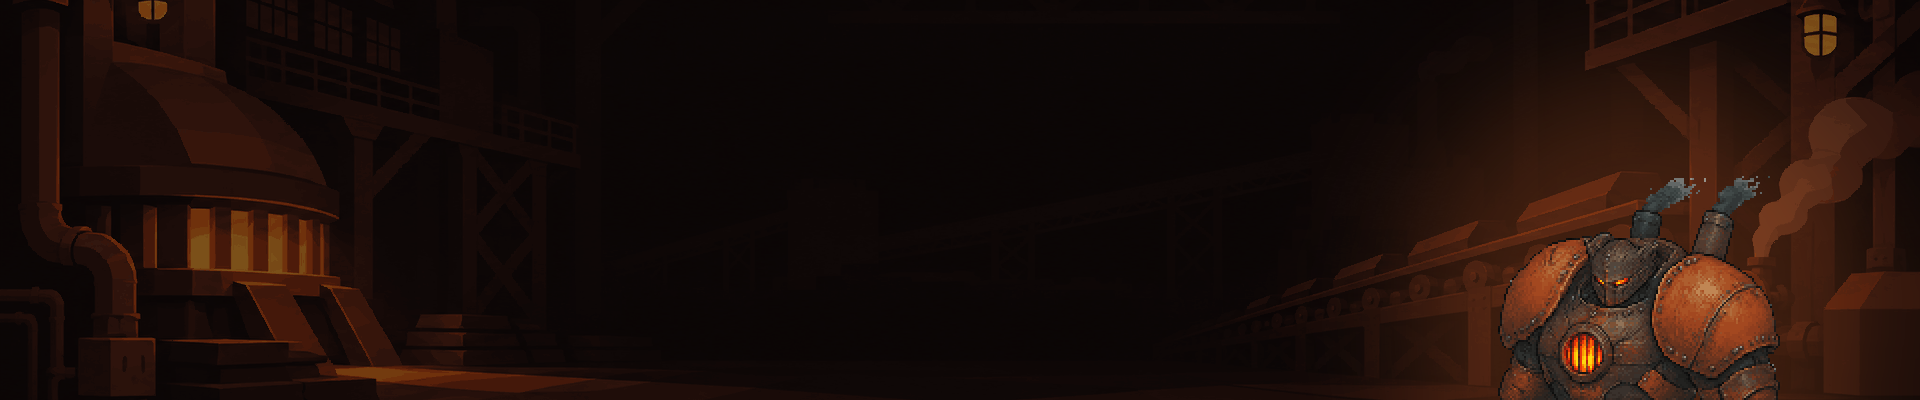
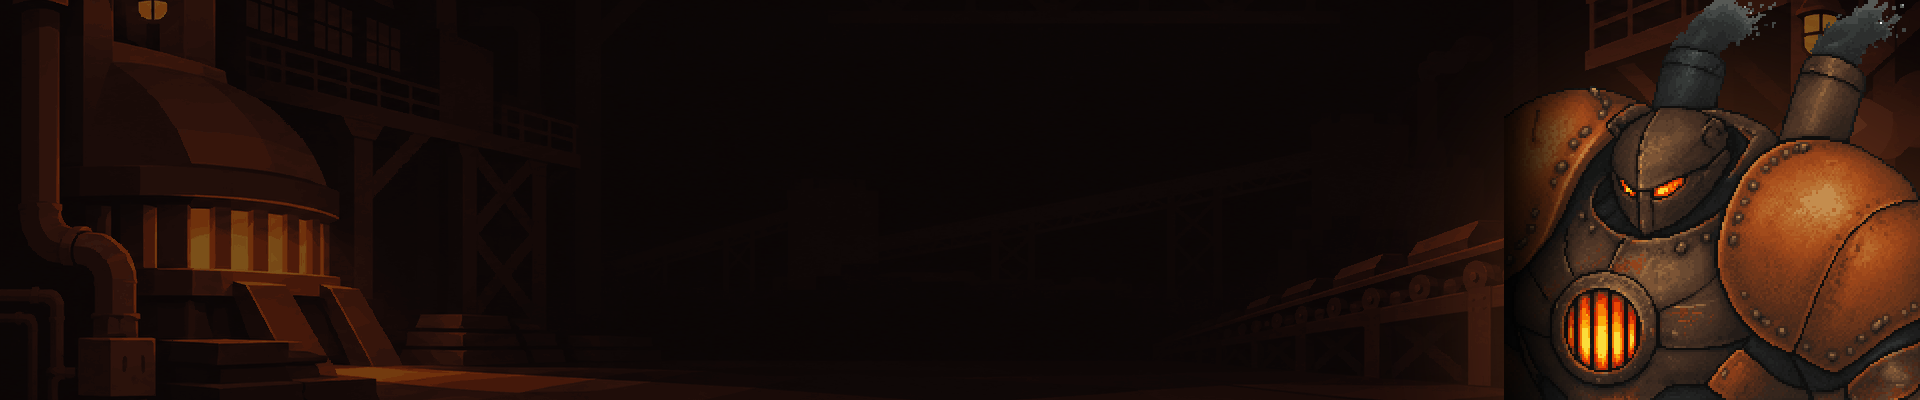
보스 카드 인물 키우기, 고철 기둥 예고를 구운 띠로
- 보스 카드(크래셔·아크·문지기) 인물을 PixelLab 가슴 위 클로즈업으로
  다시 뽑아 카드 높이를 꽉 채운다(1차 선택 시안을 기준 그림으로, 48회).
  오른쪽 끝에 붙이고 왼쪽 잘린 선은 2px 열 단위로 어둡게 스며들게.
- 크래셔 고철 기둥 낙하 예고: 사각형 띠 -> effects.draw_warn(색·폭·깜빡임 그대로).
테스트 1개 추가(878개 통과).

Changed region(s): [[0.7812, 0.0, 1.0, 1.0]]

diff --git a/tools/apply_pixellab_boss_cards.py b/tools/apply_pixellab_boss_cards.py
@@ -19,14 +19,14 @@ RAW = os.path.join(ROOT, 'assets', 'sprites', 'pixellab', 'boss_cards_v6', 'raw_
 OUT = os.path.join(ROOT, 'assets', 'backgrounds')
 W, H = 1920, 400
 SCALE = 2
-RIGHT = 140                 # 인물 오른쪽 끝과 카드 오른쪽 끝 사이
+RIGHT = 0                   # 인물 오른쪽 끝과 카드 오른쪽 끝 사이 (2차 검토: 가슴 위 클로즈업이 캔버스 좌우를 채워 카드 끝에 붙인다)
 DARK = 0.5                  # 배경 밝기
 
 # 보스 -> (고른 시안, 구역 배경, 인물 뒤 빛 색). 고른 이유는 boss_cards_v6/GENERATION_LOG.md
 CARDS = {
-    'crasher': ('crasher_2', 'zone_foundry', (255, 120, 50)),
-    'ark': ('ark_1', 'zone_haze', (60, 220, 200)),
-    'gatekeeper': ('gatekeeper_1', 'zone_cell', (120, 170, 230)),
+    'crasher': ('crasher_c1', 'zone_foundry', (255, 120, 50)),
+    'ark': ('ark_c4', 'zone_haze', (60, 220, 200)),
+    'gatekeeper': ('gatekeeper_c1', 'zone_cell', (120, 170, 230)),
     'heart': (None, 'zone_haze', (60, 230, 210)),
 }
 
@@ -43,11 +43,21 @@ def background(zone, glow, center_x):
     return Image.composite(color, bg, halo)
 
 
+FADE_W = 80                 # 인물 왼쪽 끝(캔버스에서 잘린 세로 선)을 이만큼 어둡게 스며들게 한다(px, 2px 열 단위)
+
+
 def portrait(name):
-    """고른 상반신: 알파 영역으로 잘라 최근접 2배. 알파는 0/255 그대로."""
+    """고른 상반신: 알파 영역으로 잘라 최근접 2배. 알파는 0/255 그대로.
+    2차 검토: 가슴 위 클로즈업이라 캔버스 왼쪽 끝에서 잘린다 -> 왼쪽 FADE_W를 2px 열마다 같은 배율로 어둡게(격자 유지)."""
     im = Image.open(os.path.join(RAW, name + '.png')).convert('RGBA')
     im = im.crop(im.getchannel('A').getbbox())
-    return im.resize((im.width * SCALE, im.height * SCALE), Image.NEAREST)
+    im = im.resize((im.width * SCALE, im.height * SCALE), Image.NEAREST)
+    import numpy as np
+    a = np.array(im).astype(np.float32)
+    for x0 in range(0, min(FADE_W, im.width), 2):
+        k = 0.12 + 0.88 * ((x0 + 2) / FADE_W) ** 1.4
+        a[:, x0:x0 + 2, :3] *= k
+    return Image.fromarray(np.clip(a + 0.5, 0, 255).astype(np.uint8), 'RGBA')
 
 
 def place(kind):

diff --git a/tests/test_effect_colors.py b/tests/test_effect_colors.py
@@ -31,6 +31,15 @@ def test_weapon_imprint_colors_follow_the_color_language():
     assert chain[2] > chain[0] > chain[1]                         # 보라
 
 
+def test_pillar_warning_uses_the_baked_warn_band():
+    """2차 검토 반영: 고철 기둥 낙하 예고도 다른 바닥 예고처럼 effects.draw_warn(끝이 가늘어지는 띠 + 빛)으로 그린다."""
+    import inspect
+    src = inspect.getsource(boss_terrain.ScrapPillar.draw)
+    warn = src[src.index("'warn'"):src.index("'fall'")]
+    assert 'effects.draw_warn(' in warn and 'PILLAR_WARN_COLOR' in warn
+    assert 'draw_rect_color' not in warn
+
+
 if __name__ == '__main__':
     tests = [v for k, v in sorted(globals().items()) if k.startswith('test_')]
     for t in tests:

diff --git a/src/boss_terrain.py b/src/boss_terrain.py
@@ -101,8 +101,8 @@ class ScrapPillar(_Solid):
     def draw(self):
         x0 = int(self.x - T)
         if self.state == 'warn':                                     # 바닥에 깜빡이는 그림자
-            if int(self.time * 10) % 2 == 0:
-                assets.draw_rect_color(x0, int(self.floor_y), 2 * T, 8, PILLAR_WARN_COLOR)
+            if int(self.time * 10) % 2 == 0:                          # 다른 바닥 예고와 같은 구운 띠 + 빛 (폭·깜빡임은 그대로)
+                effects.draw_warn(x0, int(self.floor_y), 2 * T, PILLAR_WARN_COLOR)
             return
         if self.state == 'fall':
             k = self.time / PILLAR_FALL

diff --git a/docs/DECISIONS.md b/docs/DECISIONS.md
@@ -720,6 +720,7 @@
 - 2026-11-26 **강화 교체기 (O5, plan_v8 3절)**: 강화 1~2단계가 준비된 채 교체기가 나가면 피해·범위(사거리·끌어오는 거리) x`SWAP_ENHANCE_MULT`(1.5, 2.0), 쌓인 단계를 모두 쓴다(`consume_enhance`). 교체기 뒤 `SWAP_ENHANCE_WINDOW`(0.6초) 안의 그 무기 타격은 맞은 적 둘레 `SWAP_ENHANCE_SPREAD`(220px)의 적에게 들어오는 무기의 각인을 묻힌다(`combo.on_hit`, 쌍권총 탄환·사슬 끌어오기가 늦게 맞아서 시간 창으로 잰다). 3단계(궁극기 준비)·교체기 쿨다운이면 강화를 쓰지 않는다. 글자는 '강화 ' + 교체기 이름, 강화 단계 색. 이펙트는 새 그림 없이 강화 색 고리(`spawn_ring`)와 빛 번짐.
 - 2026-11-26 **등불 깜빡임과 보스 막타 줌 (O6)**: 등 장식 빛은 `room.lamp_level(lamp_seed(방 이름, 칸), 방 시간)`(0.3~1: 박자가 다른 사인 둘의 느린 흔들림 + 등마다 5~9초에 한 번 0.14초 꺼질 듯, 번쩍임 줄이기면 1)을 곱한다. 등 아래 빛 원뿔(O3)도 같은 값으로 흔든다. 보스 막타 줌은 `postfx.zoom`: 볼록 렌즈와 따로, 세계 층 전체를 보스 화면 자리 쪽으로 고르게 당긴다(`BOSS_KILL_ZOOM` 0.25초에 6% -> 0.35초에 복귀, 실제 시간). UI 층은 그대로. 보스 넷이 쓰러지는 자리(죽음 대사)에서 `postfx.boss_kill`이 보스마다 한 번 부르고 일반 적은 부르지 않는다. 번쩍임 줄이기와 상관없이 `BOSS_KILL_ZOOM_ON`으로 끈다. 임팩트 프레임(2프레임)과 겹쳐도 어색하지 않아 미루지 않았다.
 - 2026-11-26 **이펙트 색 점검 (O7)**: 적의 낙하 예고는 노랑 하나(`config.FALL_WARN_COLOR` (250,220,90)): 천장 고철 더미와 크래셔 고철 기둥이 같은 값을 쓴다(기둥이 주황이었다). 나머지는 표와 맞았고, 취향으로 남긴 다섯 가지(각성 하늘색, 처형 예고 금 마름모, 용광로 배기구 청록 예고, 적 탄환 청록, 기둥 예고의 사각형 띠)는 `docs/project/color_check.md`에 목록으로만 둔다.
+- 2026-11-26 **보스 카드 인물은 가슴 위 클로즈업 (2차 검토)**: 카드 인물이 카드 높이의 85~100%가 되게 1차 선택 시안을 기준 그림으로 넣어 다시 뽑았다(crasher_c1·ark_c4·gatekeeper_c1, 모두 100%). 캔버스 좌우까지 차는 그림이라 오른쪽 끝을 카드 끝에 붙이고, 왼쪽 80px을 2px 열마다 같은 배율로 어둡게 해 잘린 선을 숨긴다(도트 격자 유지). 크래셔 고철 기둥 낙하 예고는 `effects.draw_warn`(다른 바닥 예고와 같은 띠 + 빛).
 - 2026-11-26 **세션을 둘로 나눈다 (사용자 결정, 주간 한도 절약)**: 기획·판단·검토는 Fable 세션("FABLE 기획 진두지휘"), 구현·테스트·촬영·커밋은 Opus 세션("OPUS GAME 작업"). 기획 세션이 쓴 지시문은 `docs/opus/TASKS.md`. 두 세션은 같은 폴더·같은 main을 쓰므로 같은 파일을 동시에 고치지 않는다.
 - 2026-11-26 **참고 자료 검토 결과 (사용자가 "세 묶음 모두")**: 넣는다 = ① 실루엣 컷인(단색 바탕 + 검은 실루엣 0.7초: 보스 페이즈 전환, 그리고 새 증강 '궁극기 각성'을 가진 궁극기) ② 보스 등장 보강(음악 정적, 체력바 차오름, 크래셔만 착지 등장) ③ 빛줄기(등 아래 빛 원뿔과 기운 빛줄기. 환경광·배경 분리·림라이트·블룸은 이미 있다). 미룬다 = 물 반사(방에 물이 없어 자리부터 만들어야 한다, 발표 뒤). 넣지 않는다 = Claude Code Game Studios·sprite-gen·Game-Dev Agentic Skills(절차가 무겁고 한도를 많이 쓴다 / PixelLab 결정과 겹친다 / 고도·베비용). 11/24에 뺀 궁극기의 화면 정지·이름 띠는 되살리지 않는다: 컷인은 0.8초 안, 증강이 있을 때만.
 - 2026-11-26 **건너뛴 것 가운데 넷을 더 한다 (사용자: "건너뛴 것 더 하자", 고른 것은 기획 세션)**: 보스 이름 카드를 지금 보스 그림에 맞추기(크래셔 카드가 예전 디자인의 다른 인물이고 문지기는 카드가 없다), 강화 교체기(v8 3절), 등불 깜빡임·보스 막타 줌(v7 3절), 이펙트 색 점검(v8 4-5). 하지 않는다: 움직이는 발판·금 간 벽 블록(타일 충돌), 물 반사(발표 뒤), 난이도 서약, v7 합성 2종, 일시정지 전체 지도. 지시문은 `docs/opus/TASKS.md` 2차.

diff --git a/docs/PROGRESS.md b/docs/PROGRESS.md
@@ -411,4 +411,5 @@
 2026-11-26 [Claude Code] O5 강화 교체기(docs/opus/TASKS.md, plan_v8 3절): 강화 1~2단계가 준비된 채 교체기가 나가면 피해·범위 x1.5/x2.0, 쌓인 단계를 모두 씀, 0.6초 안의 그 무기 타격이 맞은 적 둘레 220px에 들어오는 무기의 각인을 묻힘(탄환·끌어오기는 늦게 맞아서 시간 창으로). 3단계는 궁극기를 지키려고 쓰지 않음, 쿨다운이면 쓰지 않음. 글자 '강화 ○○'는 강화 단계 색, 강화 색 고리와 빛 번짐. 테스트 6개를 먼저 쓰고 구현(둘은 처음부터 통과: 3단계·쿨다운은 원래 그렇게 동작), 연습장 실제 창에서 네 무기 확인 / src/(combo, config).py, tests/test_combo.py, docs/(PROGRESS, DECISIONS, changes_from_plan).md
 2026-11-26 [Claude Code] O6 등불 깜빡임 + 보스 막타 줌(docs/opus/TASKS.md, plan_v7 3절): room.lamp_level(등마다 다른 박자의 느린 흔들림 + 5~9초마다 0.14초 꺼질 듯, 0.3~1, 번쩍임 줄이기면 1)로 등 빛과 등 아래 빛 원뿔(O3)을 같이 흔듦. postfx에 화면 전체를 고르게 당기는 줌(0.25초 6% -> 0.35초 복귀, 실제 시간, UI 그대로, config.BOSS_KILL_ZOOM_ON)을 더하고 보스 넷의 쓰러짐(죽음 대사 자리)에서 한 번 부름. 테스트 7개를 먼저 쓰고 구현, 연습장에서 크래셔 막타 줌(임팩트 프레임 -> 당김 -> 복귀)과 같은 방 등불 밝음·어두움을 실제 창에서 확인 / src/(room, light_shafts, postfx, boss, ark, gatekeeper, heart, config).py, tests/test_lamps_zoom.py, docs/(PROGRESS, DECISIONS).md
 2026-11-26 [Claude Code] O7 이펙트 색 점검(docs/opus/TASKS.md, plan_v8 4-5): 색 언어 표와 src/의 실행 중 색을 대조, 어긋난 것 하나(크래셔 고철 기둥 낙하 예고 주황 -> 노랑 config.FALL_WARN_COLOR, 천장 고철 더미와 같은 값)를 고침, 사람이 판단할 것 다섯(각성 하늘색, 처형 예고 금 마름모, 배기구 청록 예고, 적 탄환 청록, 기둥 예고가 사각형 띠)은 목록만. 표는 docs/project/color_check.md. 테스트 2개, 크래셔 방에서 노란 예고를 실제 창으로 확인 / src/(config, projectile, boss_terrain).py, tests/test_effect_colors.py, docs/project/color_check.md, docs/(PROGRESS, DECISIONS).md
+2026-11-26 [Claude Code] 2차 검토 반영: 보스 카드 인물을 가슴 위 클로즈업으로 다시 뽑아(PixelLab 48회, 1차 선택 시안을 기준 그림으로) 카드 높이 100%로 키움(crasher_c1·ark_c4·gatekeeper_c1, 오른쪽 끝에 붙이고 왼쪽 잘린 선은 2px 열 단위로 어둡게 스며들게), 크래셔 고철 기둥 낙하 예고를 사각형 띠에서 effects.draw_warn으로(색·폭·깜빡임 그대로). 테스트 1개 추가, 등장씬 카드 셋과 기둥 예고를 실제 창에서 확인 / assets/backgrounds/boss_card_(crasher, ark, gatekeeper).png, assets/sprites/pixellab/boss_cards_v6/, tools/apply_pixellab_boss_cards.py, src/boss_terrain.py, tests/test_effect_colors.py, docs/(PROGRESS, DECISIONS, ASSETS).md
 2026-11-26 [Claude Code] 계획 문서(퀄리티 계획·v4~v8)를 코드와 대조해 건너뛴 것을 정리하고, 그중 넷(보스 이름 카드 맞추기, 강화 교체기, 등불 깜빡임·보스 막타 줌, 색 점검)을 작업 세션 지시문 2차로 씀. 보스 이름 카드가 예전 디자인인 것을 새로 확인 / docs/opus/TASKS.md, docs/(PROGRESS, DECISIONS).md

diff --git a/assets/sprites/pixellab/boss_cards_v6/GENERATION_LOG.md b/assets/sprites/pixellab/boss_cards_v6/GENERATION_LOG.md
@@ -31,3 +31,23 @@
 ## 굽기
 `python tools/apply_pixellab_boss_cards.py`: 구역 카드 배경(zone_foundry·zone_haze·zone_cell)을 0.5배로 어둡게 + 인물 뒤에 구역 빛 색을 옅게,
 상반신은 알파 영역으로 잘라 최근접 2배(도트 2px), 오른쪽 끝에서 140px, 허리가 카드 아래 끝. 예전 카드는 `assets/concept/boss_cards_old/`.
+
+## 2차: 가슴 위 클로즈업 (2026-11-26 저녁, 기획 세션 검토 "인물이 작아 카드가 비어 보인다") — 48회 사용
+목표: 상반신이 카드 높이(400px)의 85~100%. 도트는 그대로 2px(최근접 2배).
+- style_image = 고른 1차 시안을 알파 영역으로 자른 것(`ref/<이름>_crop.png`, upload), usage "This is the character to draw: keep his design, colours, outline and pixel scale exactly, only frame him much closer so he fills the canvas." (color_palette 기본 true: 같은 인물의 색 그대로)
+- 설명: "Tight close-up bust portrait of the exact same character as the style image ... Chest-up framing, three-quarter view facing left. The figure fills the whole canvas: (머리 위 끝이 캔버스 위 끝, 어깨가 좌우 끝, 가슴 가운데에서 아래 끝) ..." 아크 3·4안은 "Extreme close-up ... No margins at all ... No white lines, no border."
+- 208x200, seed 5·13 (아크는 21·29 추가).
+
+| 파일 | 몸 높이(도트, 200 중) | 평가 |
+|---|---|---|
+| crasher_c1 (seed 5) | 200 | 캔버스를 가득, 깔끔 -> **선택** |
+| crasher_c2 (seed 13) | 196 | 점묘 같은 잡무늬가 많다 |
+| ark_c1 (seed 5) | 176 (정리 뒤 169) | 아래 끝 흰 줄 4줄과 모자 위 흰 점이 붙어 나옴. 정리본 `ark_c1_clean.png`은 84.5%로 목표에 조금 못 미침 |
+| ark_c2 (seed 13) | 156 | 78%, 작다 |
+| ark_c3 (seed 21) | 154 | 작다 |
+| ark_c4 (seed 29) | 200 | 캔버스를 가득(모자 꼭대기가 위 끝에서 조금 잘림), 흰 줄 없음 -> **선택** |
+| gatekeeper_c1 (seed 5) | 200 | 캔버스를 가득, 깔끔 -> **선택** |
+| gatekeeper_c2 (seed 13) | 196 | 어둡고 잡무늬 |
+
+굽기 변경(`tools/apply_pixellab_boss_cards.py`): 인물이 캔버스 좌우 끝까지 차 있어 오른쪽 끝을 카드 끝에 붙이고(RIGHT 0), 캔버스에서 잘린 왼쪽 세로 선은
+왼쪽 80px을 2px 열마다 같은 배율로 어둡게 해 배경에 스며들게 했다(격자 유지). 1차 선택(crasher_2·ark_1·gatekeeper_1)은 raw_gen에 그대로 둔다.
